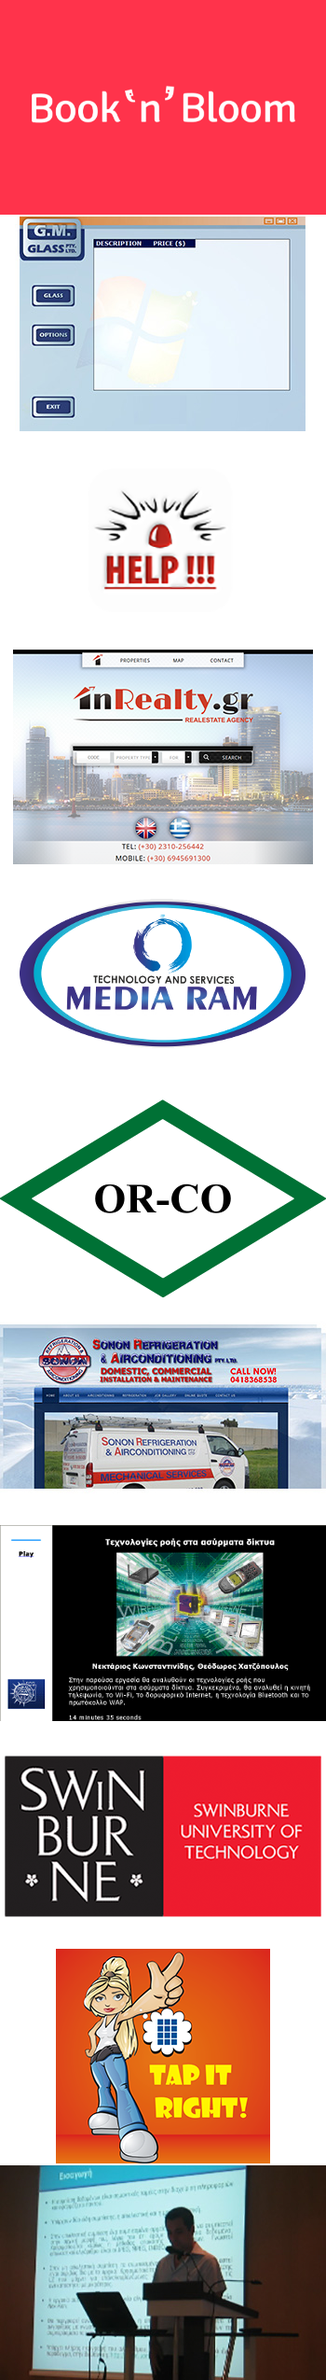
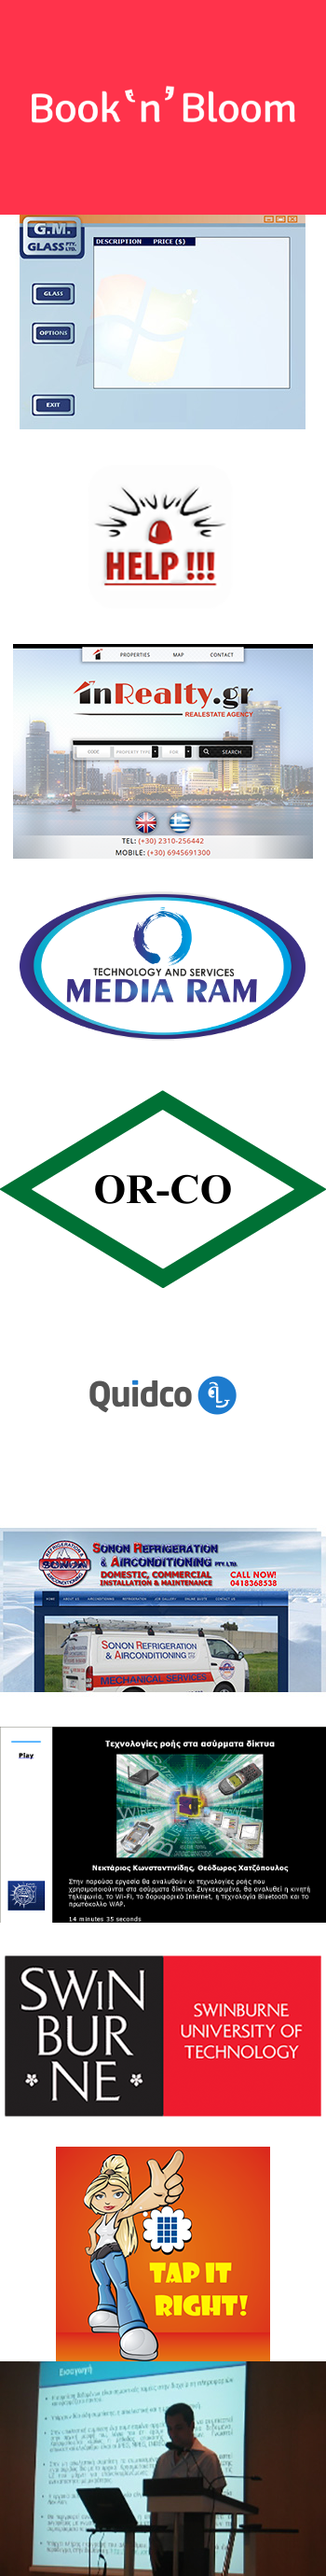
ADDED: Quidco

diff --git a/src/app/components/project/project.scss b/src/app/components/project/project.scss
@@ -1,43 +1,105 @@
-    .project{
+    .project {
         box-sizing: border-box;
         margin: 8px;
         position: relative;
         cursor: pointer;
     }
-    .hover{
+    
+    .hover {
         padding: 25% 16px 16px 16px;
         display: none;
         box-sizing: border-box;
         position: absolute;
-        background: rgba(255,255,255,0.9);
+        background: rgba(255, 255, 255, 0.9);
         z-index: 100;
         text-align: center;
-        box-shadow: 0 3px 5px -1px rgba(0,0,0,.2), 0 6px 10px 0 rgba(0,0,0,.14), 0 1px 18px 0 rgba(0,0,0,.12);
+        box-shadow: 0 3px 5px -1px rgba(0, 0, 0, .2), 0 6px 10px 0 rgba(0, 0, 0, .14), 0 1px 18px 0 rgba(0, 0, 0, .12);
         height: 100%;
         width: 100%;
     }
-    .project:hover .hover{
+    
+    .project:hover .hover {
         display: block;
     }
-    .subtitle{
+    
+    .subtitle {
         font-size: 14px;
     }
-
-/* Generated by http://responsive-css.spritegen.com Responsive CSS Sprite Generator */
- 
-    .bg-booknbloom, .bg-gmglass, .bg-help, .bg-inrealty, .bg-media-ram, 
-    .bg-orco, .bg-sonon, .bg-streaming, .bg-swinburne, .bg-tapitright, 
-    .bg-thesis
-    { max-width: 100%; background-size: 100%; background-image: url('/assets/img/projects-min.png'); }
+    /* Generated by http://responsive-css.spritegen.com Responsive CSS Sprite Generator */
     
-    .bg-booknbloom { background-position: 0 0%; background-size: 100%; }
-    .bg-gmglass { background-position: 0 10%; background-size: 100%; }
-    .bg-help { background-position: 0 20%; background-size: 100%; }
-    .bg-inrealty { background-position: 0 30%; background-size: 100%; }
-    .bg-media-ram { background-position: 0 40%; background-size: 100%; }
-    .bg-orco { background-position: 0 50%; background-size: 100%; }
-    .bg-sonon { background-position: 0 60%; background-size: 100%; }
-    .bg-streaming { background-position: 0 70%; background-size: 100%; }
-    .bg-swinburne { background-position: 0 80%; background-size: 100%; }
-    .bg-tapitright { background-position: 0 90%; background-size: 100%; }
-    .bg-thesis { background-position: 0 100%; background-size: 100%; }
+    .bg-quidco,
+    .bg-booknbloom,
+    .bg-gmglass,
+    .bg-help,
+    .bg-inrealty,
+    .bg-media-ram,
+    .bg-orco,
+    .bg-sonon,
+    .bg-streaming,
+    .bg-swinburne,
+    .bg-tapitright,
+    .bg-thesis {
+        max-width: 100%;
+        background-size: 100%;
+        background-image: url('/assets/img/projects-min.png');
+    }
+    
+    .bg-booknbloom {
+        background-position: 0 0%;
+        background-size: 100%;
+    }
+    
+    .bg-gmglass {
+        background-position: 0 9.090909%;
+        background-size: 100%;
+    }
+    
+    .bg-help {
+        background-position: 0 18.181818%;
+        background-size: 100%;
+    }
+    
+    .bg-inrealty {
+        background-position: 0 27.272727%;
+        background-size: 100%;
+    }
+    
+    .bg-media-ram {
+        background-position: 0 36.363636%;
+        background-size: 100%;
+    }
+    
+    .bg-orco {
+        background-position: 0 45.454545%;
+        background-size: 100%;
+    }
+    
+    .bg-quidco {
+        background-position: 0 54.545455%;
+        background-size: 100%;
+    }
+    
+    .bg-sonon {
+        background-position: 0 63.636364%;
+        background-size: 100%;
+    }
+    
+    .bg-streaming {
+        background-position: 0 72.727273%;
+        background-size: 100%;
+    }
+    
+    .bg-swinburne {
+        background-position: 0 81.818182%;
+        background-size: 100%;
+    }
+    
+    .bg-tapitright {
+        background-position: 0 90.909091%;
+        background-size: 100%;
+    }
+    
+    .bg-thesis {
+        background-position: 0 100%;
+        background-size: 100%;
+    }
